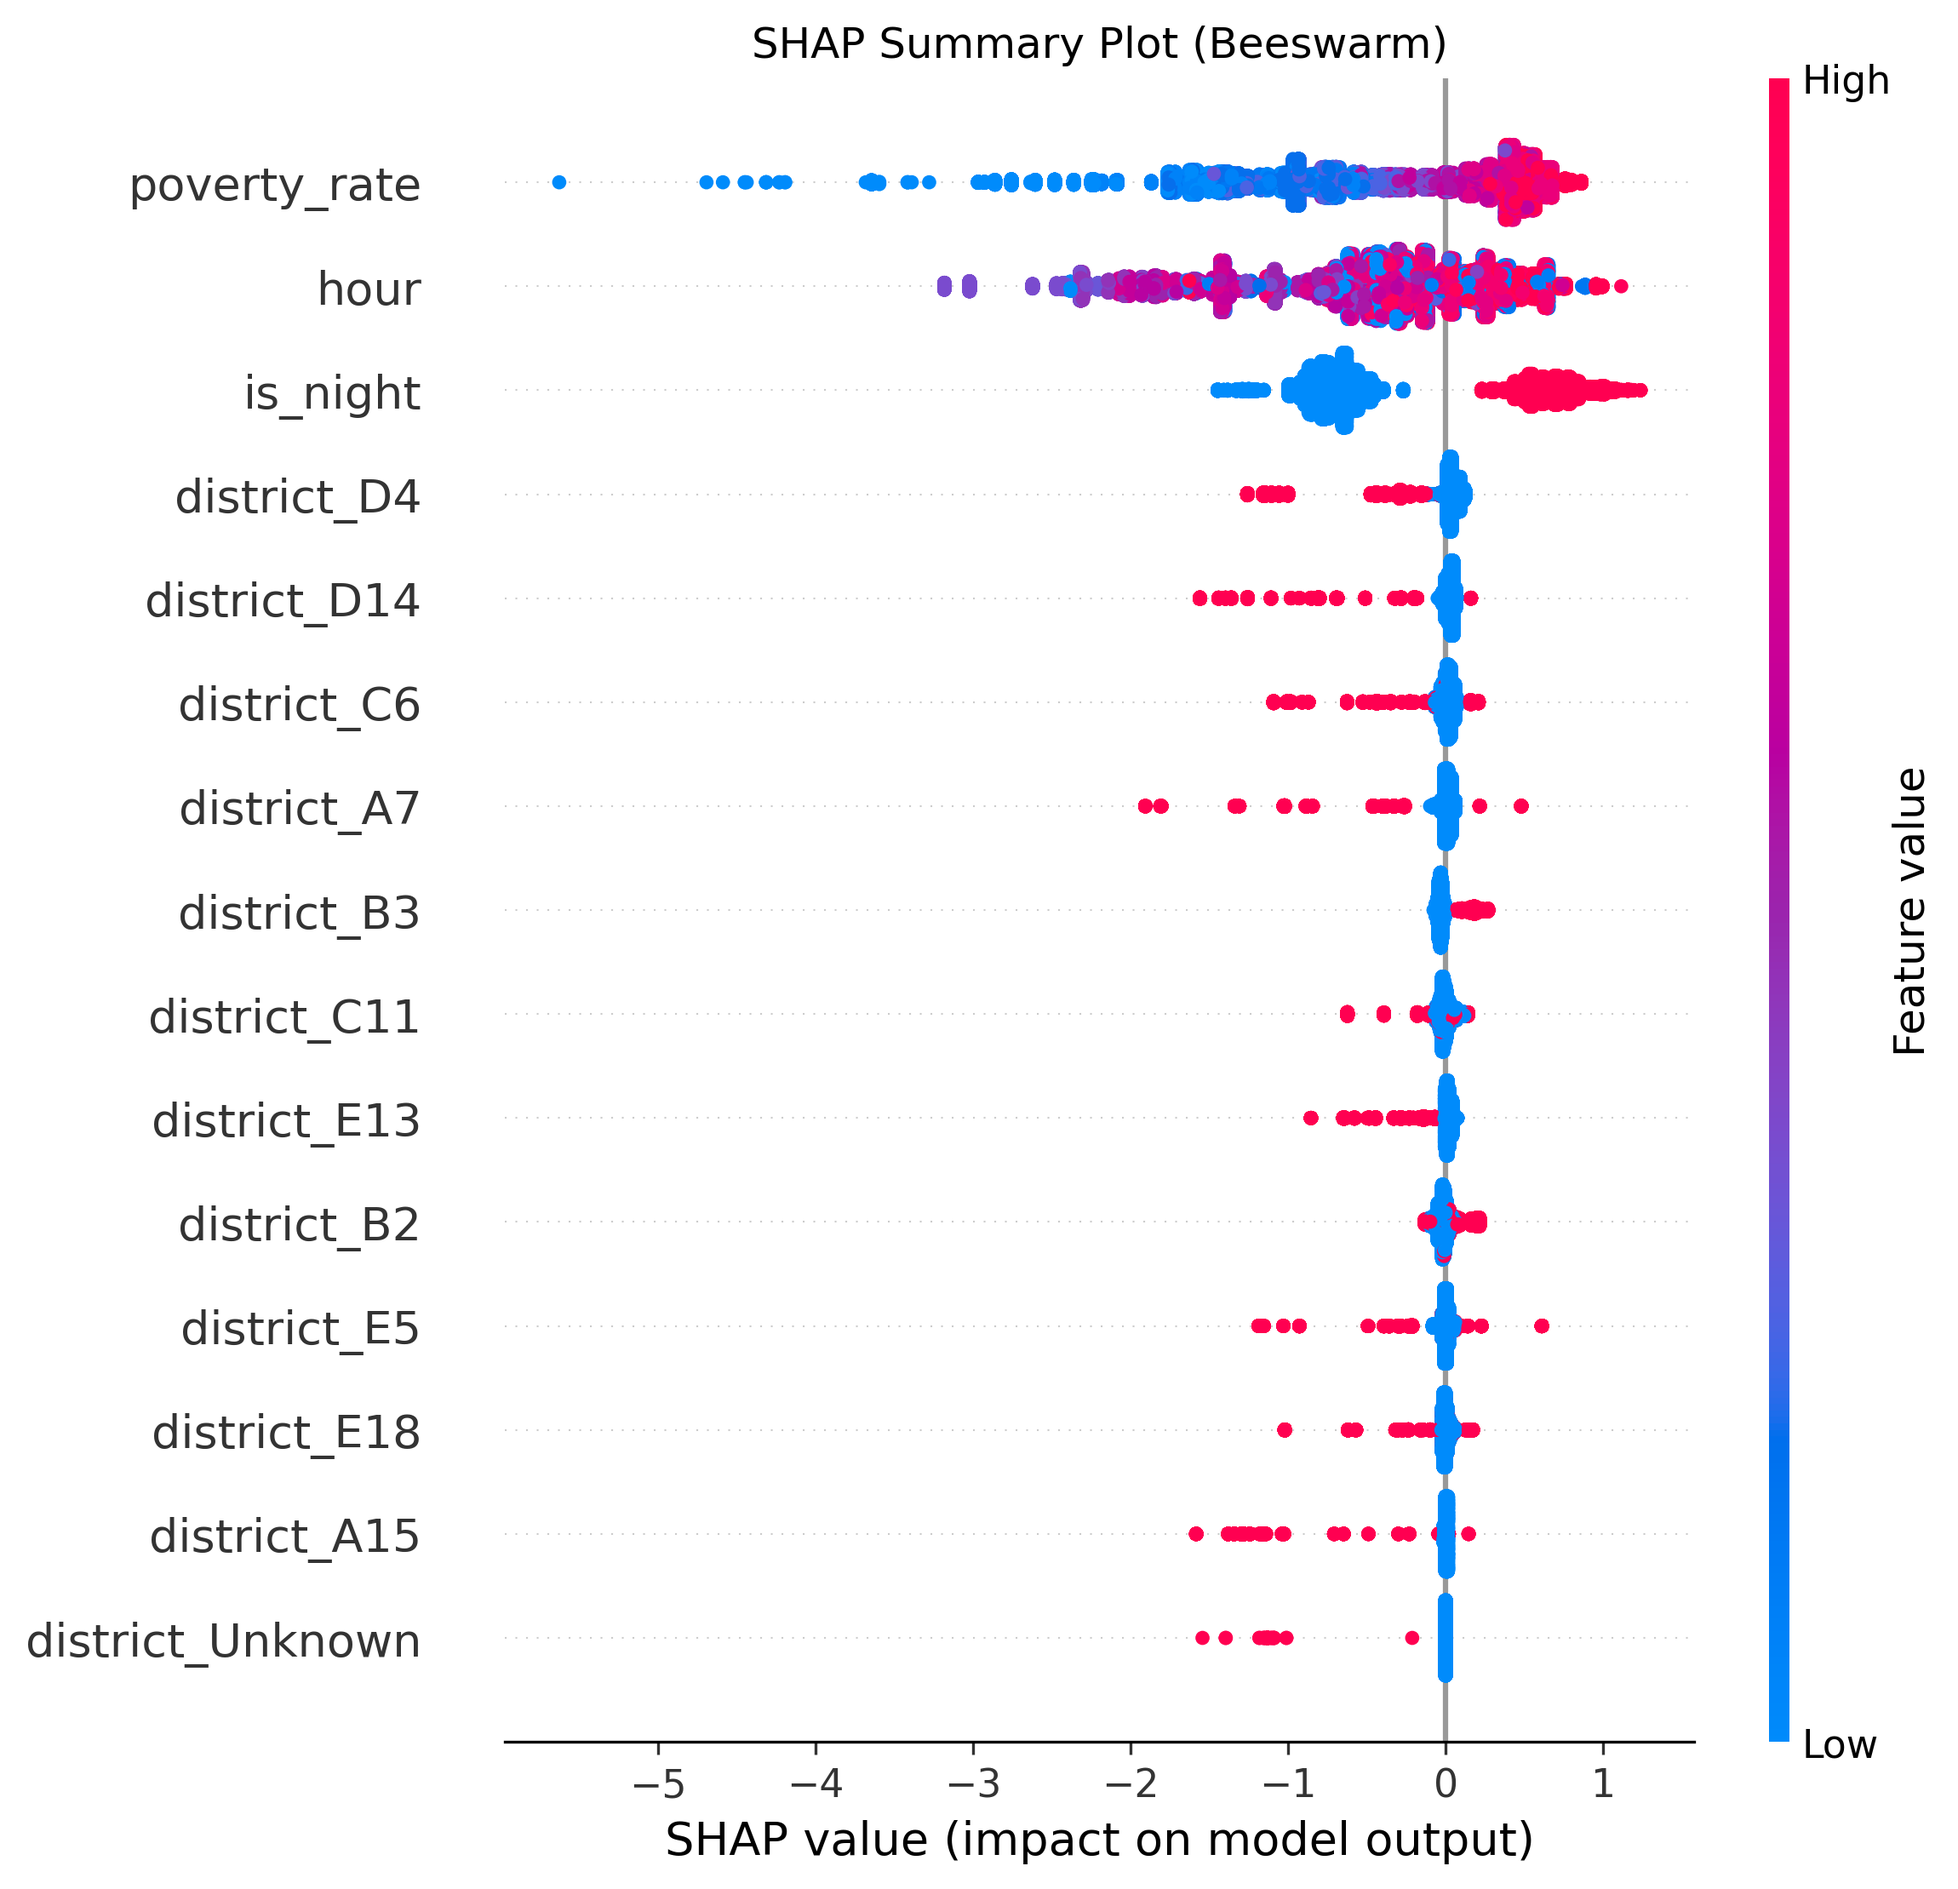
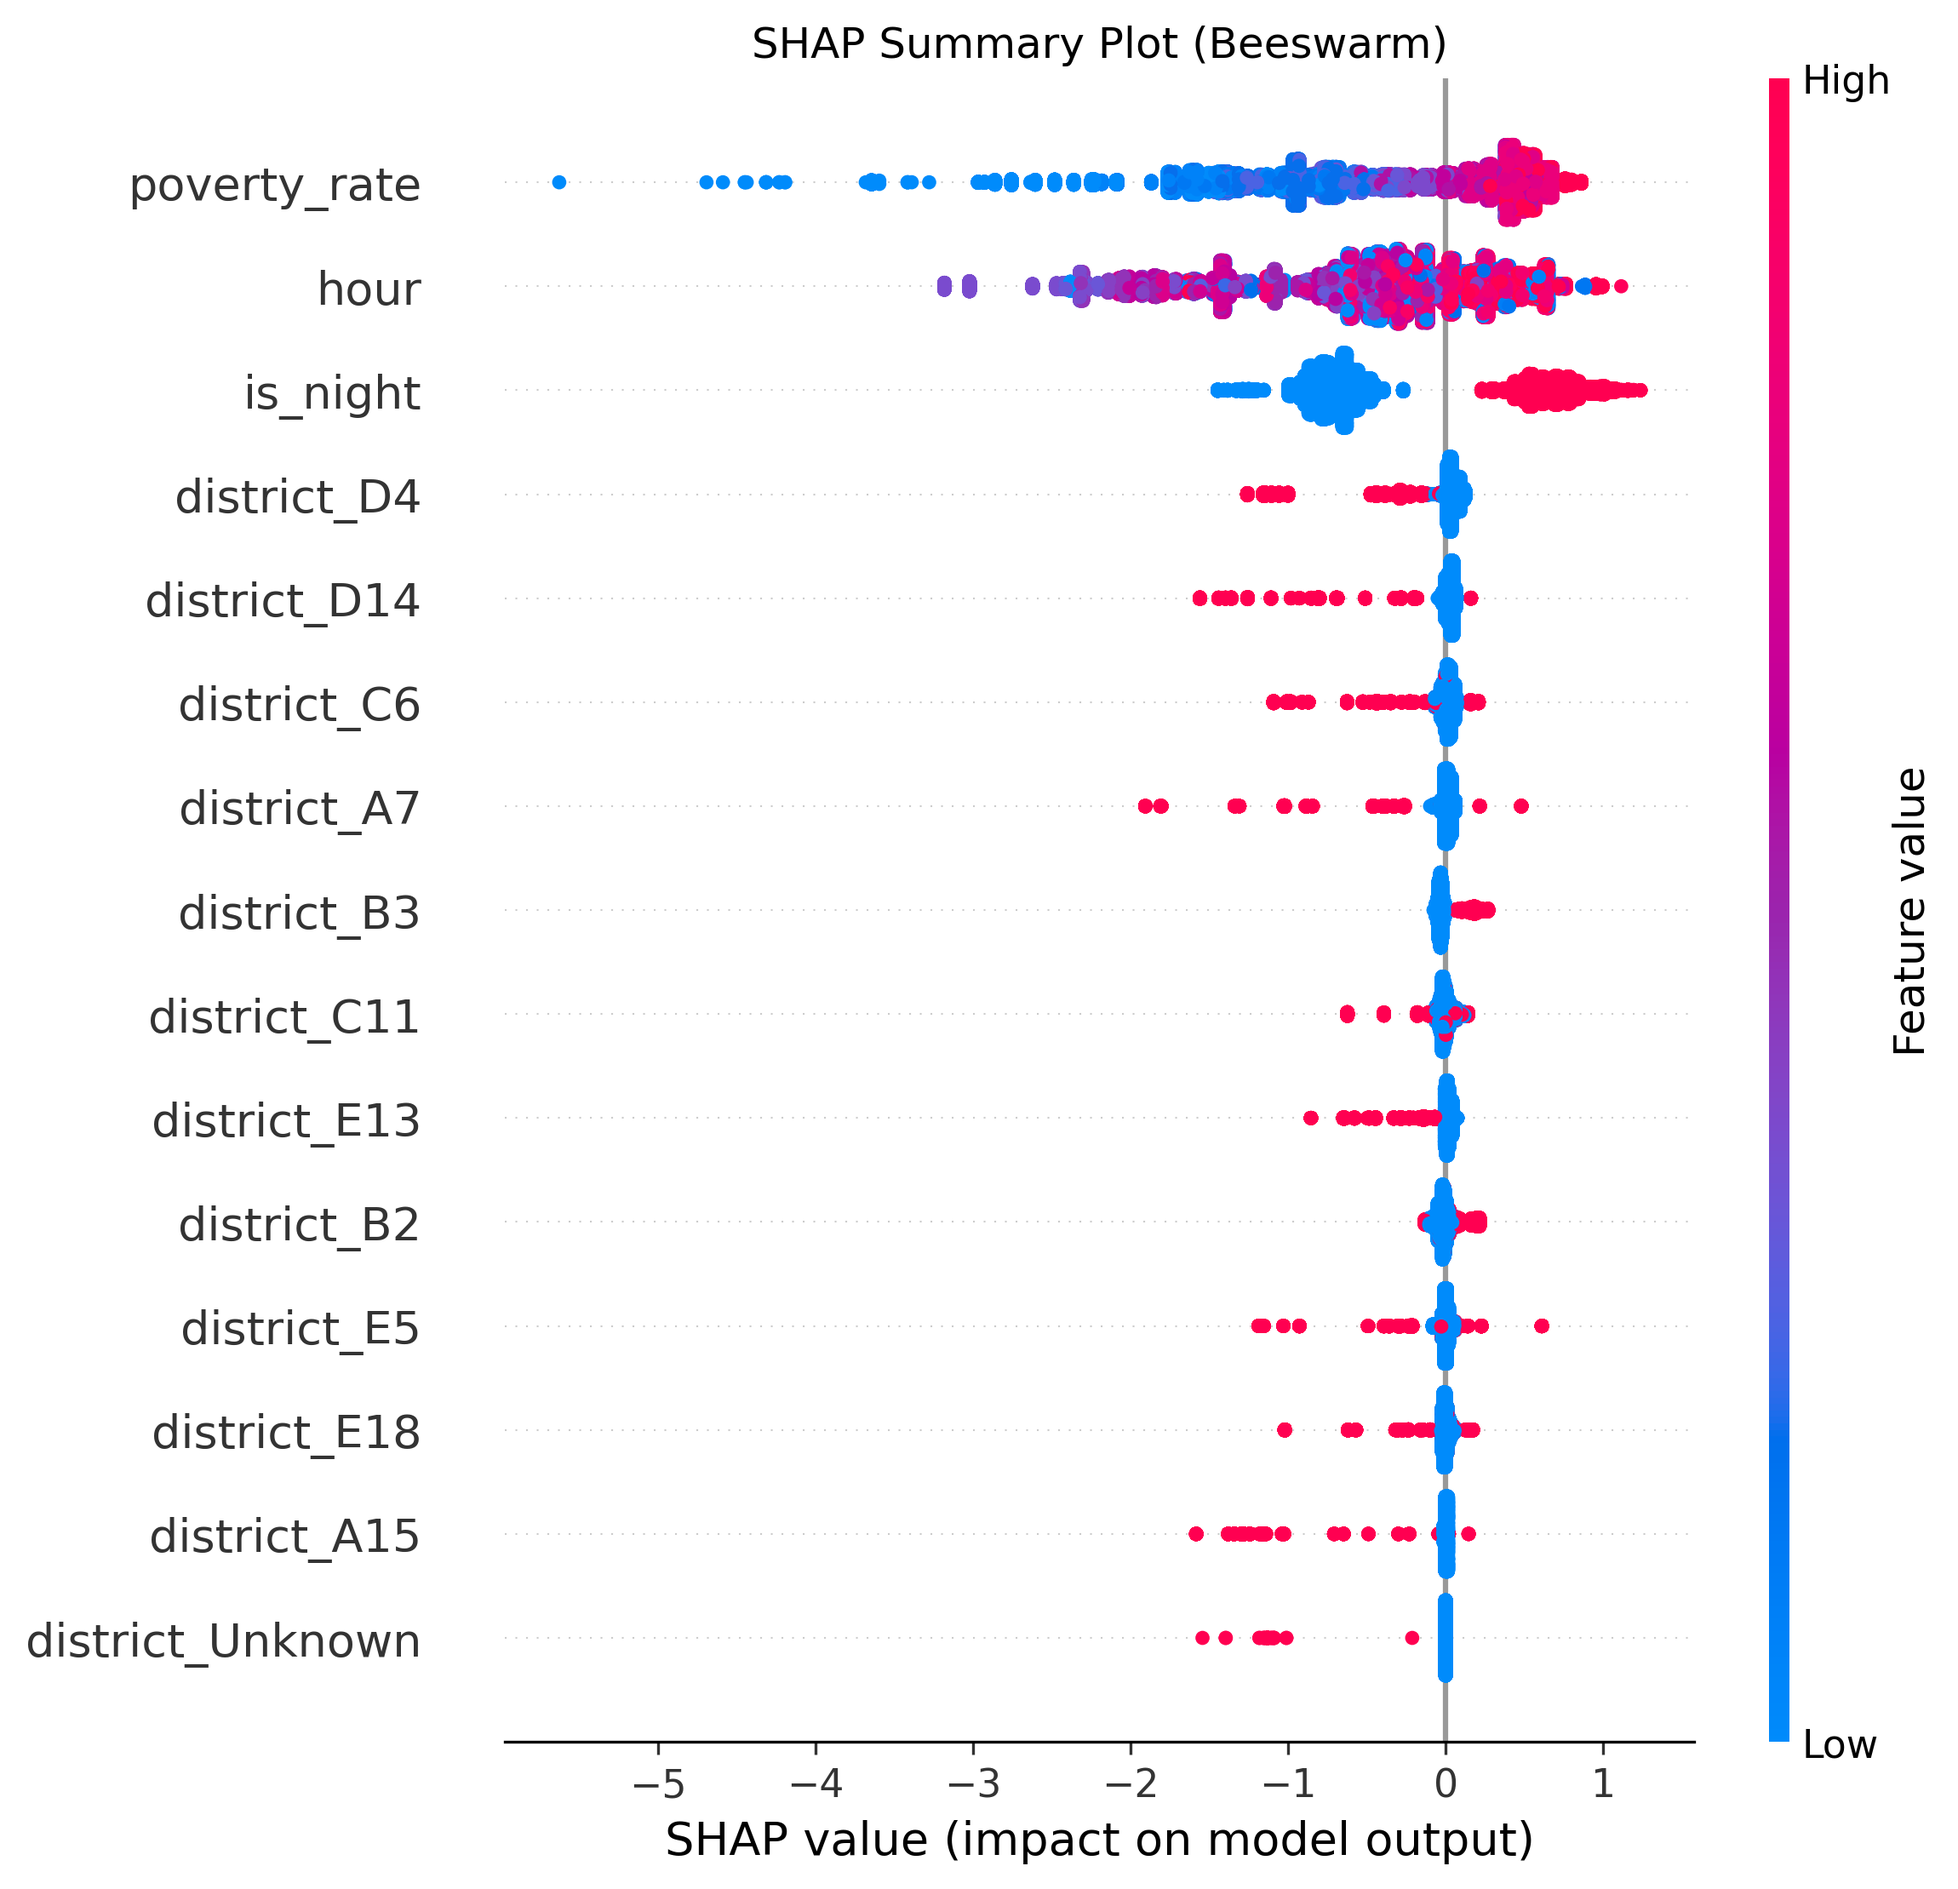
run_all.py update

Changed region(s): [[0.5557, 0.0622, 0.8026, 0.1866]]

diff --git a/src/run_all.py b/src/run_all.py
@@ -57,7 +57,7 @@ if success:
     print("🎉 CONGRATULATIONS! FULL PIPELINE COMPLETED SUCCESSFULLY!")
     print("="*70)
     print("✅ All 7 scripts executed without errors")
-    print("\n📁 Your project is now fully up to date!")
+    print("\n📁 The project is now fully up to date!")
     print("You can now open Tableau and connect to:")
     print("   visualizations/tableau/tableau_ready.csv")
 else:
